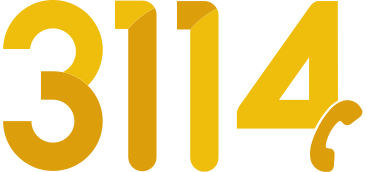
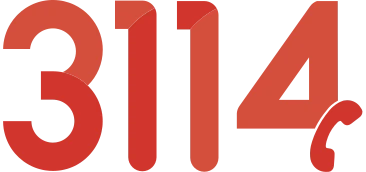
Add SOS dialog

diff --git a/web/ldv-recherche.fr/assets/static/ldv.js b/web/ldv-recherche.fr/assets/static/ldv.js
@@ -13,6 +13,7 @@
 // You should have received a copy of the GNU General Public License
 // along with this program.  If not, see <https://www.gnu.org/licenses/>.
 
+import { render, html } from '../../../../vendor/lit-html/lit-html.bundle.js';
 import '../../../../src/web/flaat/flaat.js';
 
 window.addEventListener('load', e => {
@@ -71,6 +72,66 @@ function initCards() {
     }
 }
 
+function sos(e) {
+    dialog(e, 'sos', html`
+        <div>
+            <img src=${assets['3114']} width="183" height="86" alt="">
+            <div>
+                <p>Le <b>3114</b> est le numéro national de prévention de suicide. Consultez le site pour plus d'informations sur la prévention du suicide.
+                <p>Si vous êtes en <b>détresse et/ou avez des pensées suicidaires</b>, ou si vous voulez aider une personne en souffrance, vous pouvez contacter le numéro national de prévention du suicide, le 3114.
+            </div>
+        </div>
+    `);
+
+    if (e.target == e.currentTarget)
+        e.preventDefault();
+}
+
+function dialog(e, id, content) {
+    let parent = e.currentTarget;
+    let dlg = document.getElementById(id);
+
+    if (dlg == null) {
+        dlg = document.createElement('dialog');
+        dlg.id = id ?? '';
+    }
+
+    render(html`
+        <div @click=${stop}>
+            <img src=${assets['3114']} width="183" height="86" alt="">
+            <div>
+                <p>Le <a href="tel:3114">3114</a> est le numéro national de prévention de suicide. Consultez le site pour plus d'informations sur la prévention du suicide.
+                <p>Si vous êtes en <b>détresse et/ou avez des pensées suicidaires</b>, ou si vous voulez aider une personne en souffrance, vous pouvez contacter le numéro national de prévention du suicide, le <a href="tel:3114">3114</a>.
+            </div>
+        </div>
+    `, dlg);
+
+    if (!dlg.open) {
+        let parent = e.currentTarget;
+
+        if (parent.tagName == 'A') {
+            let rect = parent.getBoundingClientRect();
+            let right = (rect.left + rect.width >= window.innerWidth / 2);
+
+            dlg.classList.add(right ? 'right' : 'left');
+
+            parent.appendChild(dlg);
+        } else {
+            document.body.appendChild(dlg);
+        }
+
+        dlg.show();
+    } else {
+        dlg.close();
+        dlg.parentNode.removeChild(dlg);
+    }
+
+    function stop(e) {
+        if (e.target != parent && e.target.tagName == 'A')
+            e.stopPropagation();
+    }
+}
+
 function detectSwipe(el, func) {
     let start = null;
 
@@ -102,3 +163,5 @@ function isTouchDevice() {
 
     return true;
 }
+
+export { sos }

diff --git a/web/ldv-recherche.fr/assets/static/ldv.css b/web/ldv-recherche.fr/assets/static/ldv.css
@@ -38,6 +38,68 @@ h1:not(:first-of-type) { margin-top: 2em; }
 
 span[title] { border-bottom: 1px dotted #383838; }
 
+dialog {
+    position: absolute;
+    top: auto;
+    left: auto;
+    right: 0;
+    width: 600px;
+    max-width: 90vw;
+    box-sizing: border-box;
+    padding: 0;
+    background: none;
+    border: none;
+    outline: none;
+    z-index: 9999;
+    cursor: default;
+}
+dialog > div {
+    background: #f8f8f8;
+    border: 4px solid #ccc;
+    border-radius: 16px;
+    padding: 2em;
+}
+dialog.left > div { border-radius: 0 16px 16px 16px; }
+dialog.right > div { border-radius: 16px 0 16px 16px; }
+
+#sos > div {
+    display: flex;
+    background: #fdfbf8;
+    border-color: #d97069;
+    align-items: center;
+    gap: 2em;
+}
+
+@media screen and (max-width: 960px) {
+    dialog {
+        position: fixed;
+        left: 0;
+        top: 0;
+        width: 100%;
+        max-width: none;
+        height: 100%;
+        padding: 2em;
+        background: #00000088;
+        z-index: 999;
+        border: none;
+        align-items: center;
+        justify-content: center;
+    }
+    dialog[open] { display: flex; }
+    dialog > div {
+        top: 0;
+        left: revert;
+        right: revert;
+        margin: 0 auto;
+        border-radius: 16px !important;
+    }
+
+    #sos > div {
+        flex-direction: column;
+        z-index: 1;
+    }
+}
+
 .buttons {
     margin-top: 2em;
     justify-content: space-evenly;
@@ -103,6 +165,7 @@ p + .columns { margin-top: 2em; }
     gap: 0.8em;
 }
 .tabbar > a {
+    position: relative;
     padding: 0.4em 1em 0.5em 1em;
     background: #f5d0bf;
     cursor: pointer;
@@ -330,4 +393,19 @@ p + .columns { margin-top: 2em; }
     }
 
     .inline { display: none; }
+}
+
+#sos > div {
+    display: flex;
+    background: #fdfbf8;
+    border-color: #d97069;
+    align-items: center;
+    gap: 2em;
+}
+
+@media screen and (max-width: 960px) {
+    #sos > div {
+        flex-direction: column;
+        z-index: 1;
+    }
 }

diff --git a/web/ldv-recherche.fr/templates/page.html b/web/ldv-recherche.fr/templates/page.html
@@ -11,6 +11,11 @@
         <meta name="theme-color" content="#3c7778">
         <link rel="stylesheet" href="{{ ASSET static/site.min.css }}">
 
+        <script>
+            var assets = {
+                '3114': '{{ ASSET static/misc/3114.webp }}'
+            };
+        </script>
         <script type="text/javascript" src="{{ ASSET static/site.min.js }}"></script>
     </head>
 

diff --git a/web/ldv-recherche.fr/pages/livres.md b/web/ldv-recherche.fr/pages/livres.md
@@ -5,7 +5,10 @@
 <div class="tabbar">
     <a class="active">Livres</a>
     <a href="/videos">Vidéos</a>
+    <div style="flex: 1;"></div>
+    <a href="https://3114.fr/je-suis-en-souffrance/" onclick="app.sos(event); return false" style="background: #d97069;">SOS</a>
 </div>
+
 <div class="tab cardset">
     <div class="card">
         <img src="{{ ASSET static/livres/traiter_la_depression.jpg }}" alt="" />

diff --git a/web/ldv-recherche.fr/pages/videos.md b/web/ldv-recherche.fr/pages/videos.md
@@ -5,6 +5,8 @@
 <div class="tabbar">
     <a href="/livres">Livres</a>
     <a href="/videos" class="active">Vidéos</a>
+    <div style="flex: 1;"></div>
+    <a href="https://3114.fr/je-suis-en-souffrance/" onclick="app.sos(event); return false" style="background: #d97069;">SOS</a>
 </div>
 <div class="tab cardset">
     <div class="card">
